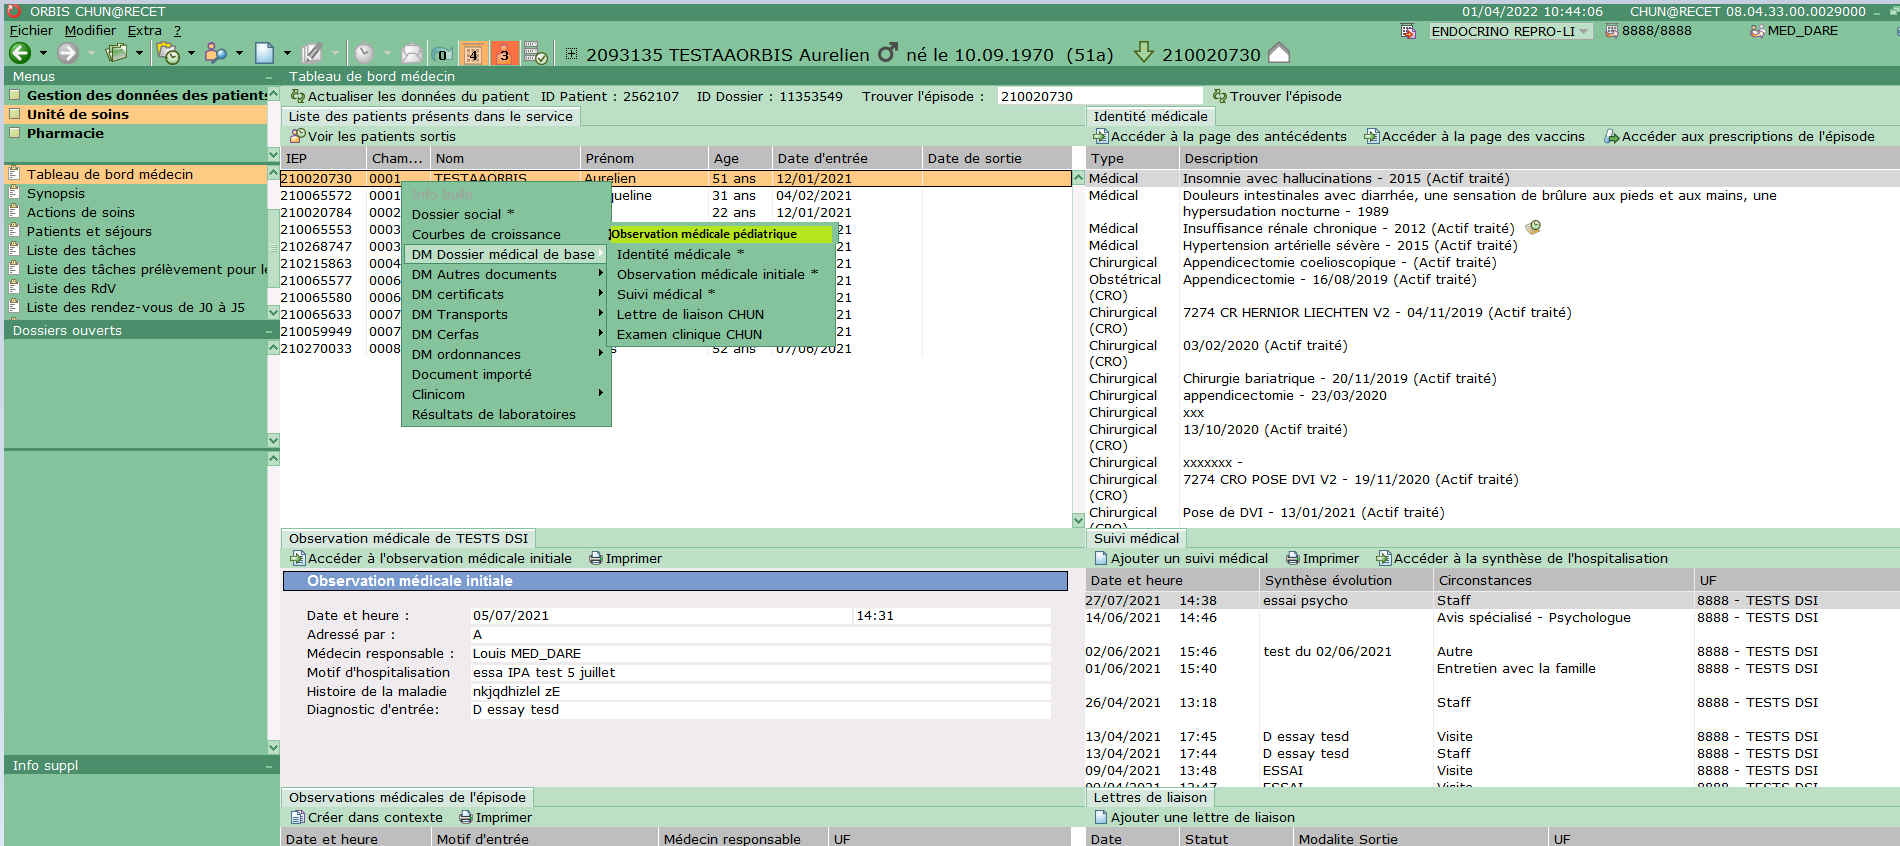
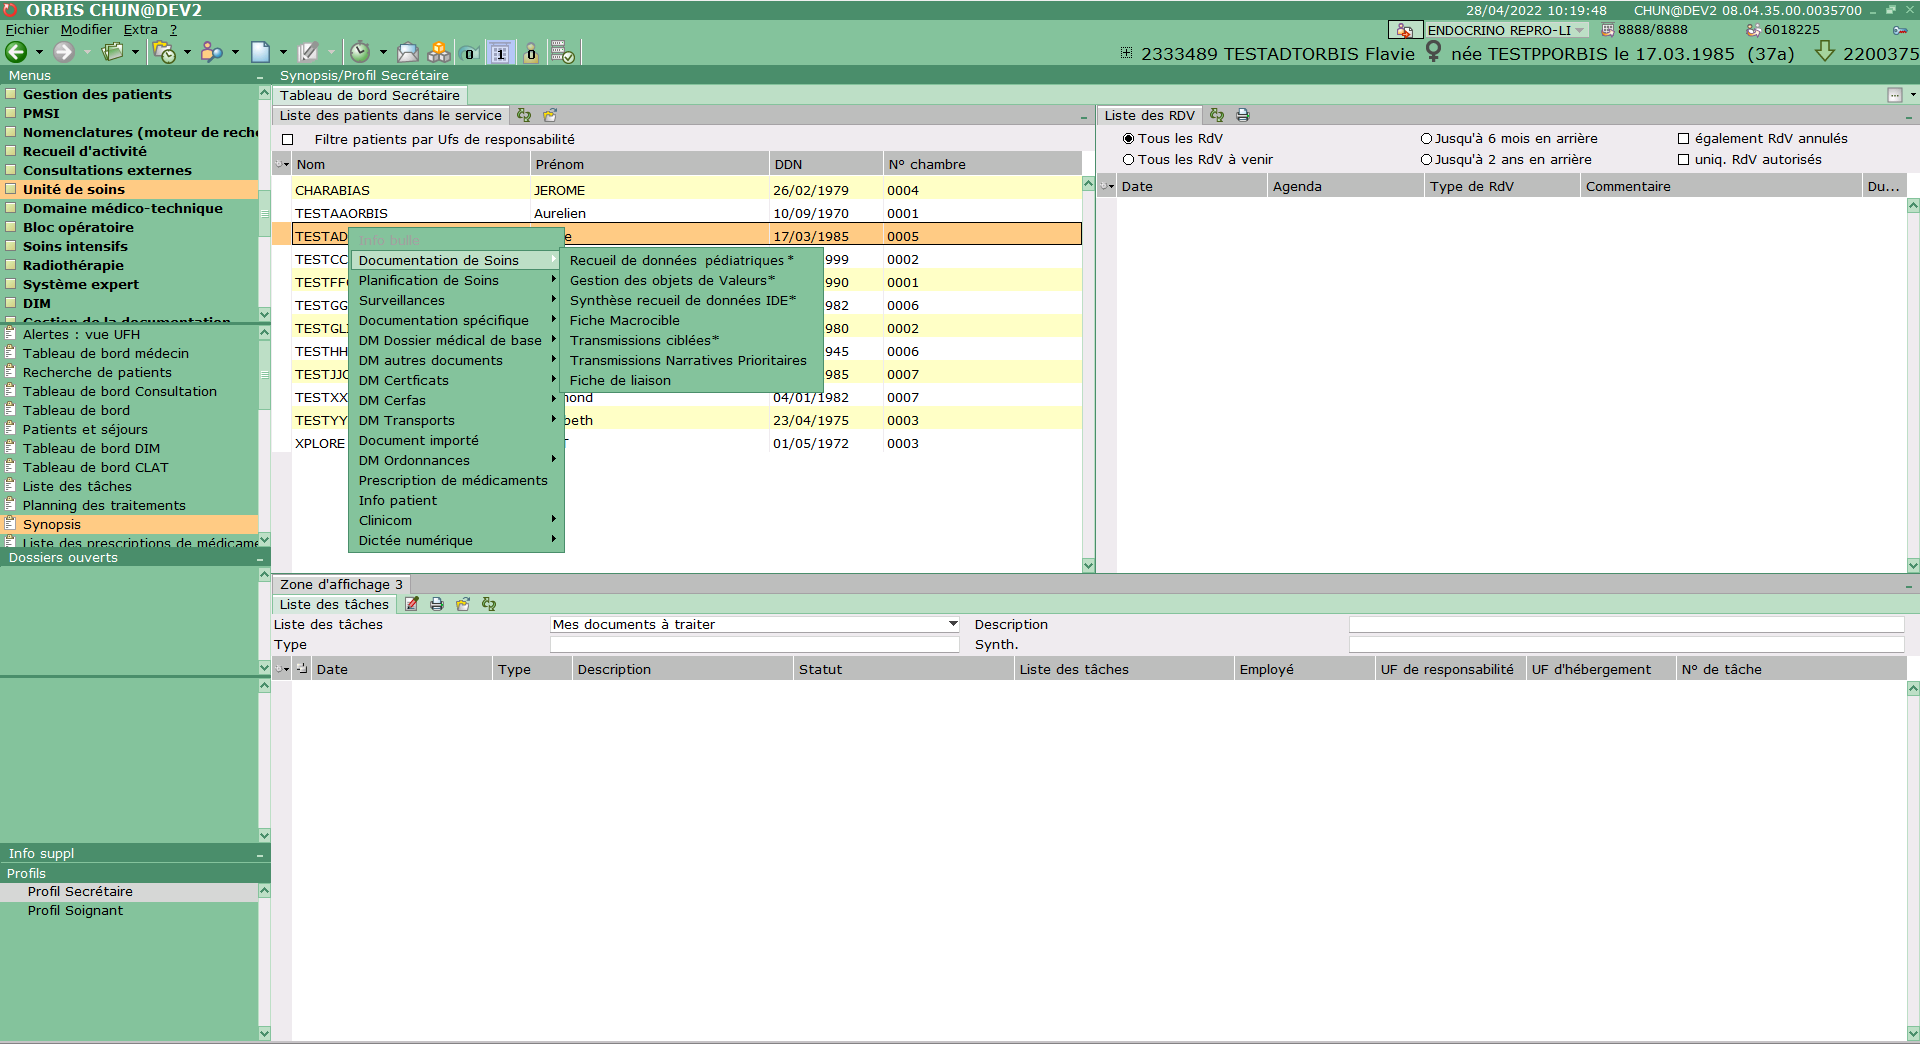
MAJ TDB IDE

diff --git a/SiteDuWiner/src/app/pages/BtCreer/Soignant/soignant.component.html b/SiteDuWiner/src/app/pages/BtCreer/Soignant/soignant.component.html
@@ -1,5 +1,6 @@
-<img src="../../../../assets/TDB IDE.png" usemap="#image-map" style="width: 100%;height: 100%;">
+<img src="../../../../assets/TDB IDE.png" usemap="#image-map">
+
 <map name="image-map">
-    <area target="" alt="" title="" href="/contexteFamilial" coords="248,37,293,69" shape="rect">
-    <area target="" alt="" title="" href="/contexteFamilial" coords="608,220,837,242" shape="rect">
+    <area target="" alt="" title="" href="/contexteFamilial" coords="562,249,823,273" shape="rect">
+    <area target="" alt="" title="" href="/contexteFamilial" coords="248,36,289,65" shape="rect">
 </map>

diff --git a/SiteDuWiner/src/app/pages/BtCreer/Medecin/medecin.component.html b/SiteDuWiner/src/app/pages/BtCreer/Medecin/medecin.component.html
@@ -1,4 +1,4 @@
-<img src="../../../../assets/TDB IDE.png" usemap="#image-map" style="width: 100%;height: 100%;">
+<img src="../../../../assets/TDB MED.png" usemap="#image-map" style="width: 100%;height: 100%;">
 <map name="image-map">
     <area target="" alt="" title="" href="/Admission" coords="243,39,295,65" shape="rect">
     <area target="" alt="" title="" href="/Admission" coords="608,220,835,248" shape="rect">
